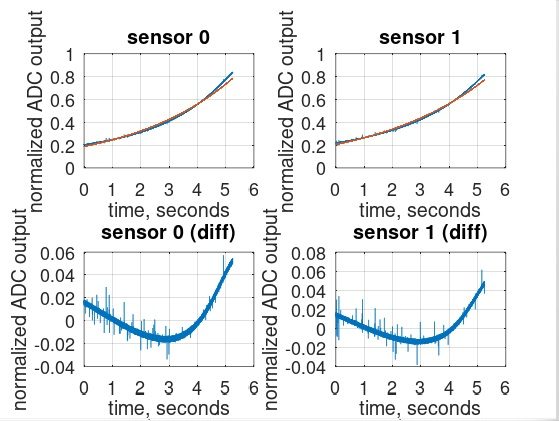
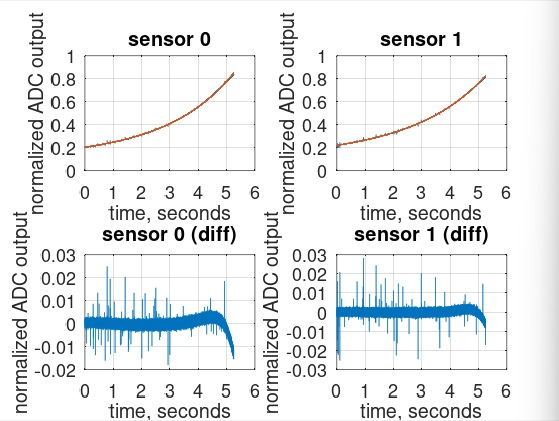
block diagram of processing description

Changed region(s): [[0.0, 0.0309, 0.9123, 1.0], [0.9732, 0.247, 1.0, 1.0]]

diff --git a/pdps/README.md b/pdps/README.md
@@ -4,6 +4,8 @@ The open source hybrid piano [1][2] (*OSH Piano*, also known as *stem piano*) me
 
 The following describes a measurement and processing system including compensating for error sources. The following system is not open source nor included as part of an open source piano.
 
+Note that not all .md viewers show equation numbers. The text includes an equation number in description.
+
 # 1. PDPS Block Diagrams
 
 ## Fig. 1 Mechanical System on Hammer
@@ -18,7 +20,7 @@ Side view of mechanical system and sensors at hammer.
 | 101 | Shank | Standard component of a grand piano action. |
 | 102 | Hammer | Standard component of a grand piano action. |
 | 103 | Stop Bar | Physically stops the hammer motion. In a piano, the hammer would stop when it hits a piano string. |
-| 104 | Optical gate | Precision cut gap in a thin material. Gap shape not necessarily as shown in figure. |
+| 104 | Optical gate | Precision cut gap in a thin material. Gap shape not necessarily as shown in figure. An alternate method is blocking in center and gap above and below in a 'flag' type structure. |
 | 105 | Phototransmissive System (PTS) | Transmissive light emitting and receiving devices that straddle the optical gate 104 as the hammer 101 moves from rest position to position at stop bar 103. For absolute position measurement references. |
 | 106 | Photoreflective System (PRS) | Reflective light emitting and receiving device for continuous hammer shank relative position measurements. |
 | 107 | Sensing Mount | Connecting system for PTS 105 and PRS 106. |
@@ -64,9 +66,11 @@ The vertical axis is the analog output of a PTS or PRS photoreceiver. The horizo
 | 400 | PRS photoreceiver output signal | Response is nonlinear and subject to PRS (106) manufacturing tolerances.
 | 401 | PTS photoreceiver output signal | Response is high when the optical gate (104) (304) is not blocking PTS photo emitter (306) and photo receiver (305) light path.
 | 402 | Rest position | Output signal of PTS (105) is at level 406 and output of PRS (106) is at level 407.
-| 403 | Shuttle start opening | Output signal of PTS (105) photoreceiver goes from level 406 to level 411 as shuttle opening starts to cross the PTS photo emitter (306) and photo receiver (305) light path. Output signal (400) of PRS (106) is at level 408.
-| 404 | Shuttle end opening  | Output signal of PTS (105) goes from level 411 to level 406 as shuttle opening ends crossing of the PTS photo emitter (306) and photo receiver (305) light path. Output signal (400) of PRS (106) is at level 409.
+| 403 | Optical gate start opening | Output signal of PTS (105) photoreceiver goes from level 406 to level 411 as optical gate opening starts to cross the PTS photo emitter (306) and photo receiver (305) light path. Output signal (400) of PRS (106) is at level 408.
+| 404 | Optical gate end opening  | Output signal of PTS (105) goes from level 411 to level 406 as optical gate opening ends crossing of the PTS photo emitter (306) and photo receiver (305) light path. Output signal (400) of PRS (106) is at level 409.
 | 405 | Max position | Output signal (401) of PTS (105) is at level 406 and output signal (400) of PRS (106) is at level 410 when hammer is at hammer stop (103). |
+
+In an alternate embodiment, the optical gate is blocked at center and open at top and bottom. In this case, PTS photoreceiver output signal (401) is inverted.
 
 ## Fig. 5 Piano Dynamics Process System High Level Block Diagram
 
@@ -87,6 +91,8 @@ Each PRS, PTS, and ADC section in Fig. 5 replicates for each hammer. Similarly f
 | 508 | Sound | System computes piano sounds and outputs for speakers or headphones. |
 | 509 | Replication of PRS, PTS, and ADC | For 88 or more piano dampers and 88 or more piano keys. |
 
+Because a PTS signal (504) is nearly two-level, an alternate embodiment to an ADC is an analog comparator or Schmitt trigger. This circuit converts the analog signal to a binary ON or OFF value. A comparator is simpler and less expensive than an ADC. The advantage of an ADC is ability for more sophisticated signal processing in Processing System (500) to increase accuracy and precision.
+
 ### Fig. 6 Sampled Waveforms.
 
 <img src="./pdps_fig6.jpg" alt="drawing" width="500"/>
@@ -95,6 +101,25 @@ Each PRS, PTS, and ADC section in Fig. 5 replicates for each hammer. Similarly f
 | - | - | - |
 | 600 | Position values | Normalized values, after correction for all system errors as described below, used by algorithms in Processing System 500. |
 | 601 | Velocity values | Normalized velocity values as computed from 600 in Processing System 500. Velocity values are continuously computed they are not computed based on thresholds. Many digital signal processing algorithms exist to compute velocity based on continuously sampled waveforms.
+
+### Fig. 7 Processing System
+
+The processing is described in detail later in this document. The system in Fig. 7 replicates for each hammer signal and for each key (used in part to calculate damper dynamics) signal.
+
+<img src="./pdps_fig7.jpg" alt="drawing" width="500"/>
+
+| Item | Name | Description |
+| - | - | - |
+| 700 | Sampled PTS values | Received from ADC connected to PTS output signal (504). Alternatively, this is a binary input from an external PTS photoreceiver comparator circuit. |
+| 701 | PTS Process | Signal processing to precisely and consistently capture instant of rising and falling edges. See Fig. 4 and (401) for reference. |
+| 702 | PTS Processed Output | Signal indicating a PTS signal rising or falling edge. |
+| 703 | Sampled PRS values | Received from ADC connected to PRS output signal (502). |
+| 704 | Normalize | Normalize ADC integer values into a floating point value in range 0.0, ..., 1.0. |
+| 705 | Curve Fit | Implement equations (12) and (13) as described later. |
+| 706 | Curve Fit output | Curve fit values $a$ and $b$. |
+| 707 | Normalized samples | PRS values in range 0.0, ..., 1.0. |
+| 708 | Invert | Implement equation (14) as described later to get $x_{estimated}$. |
+| 709 | Output | Output samples for example $position[k]$ (600). |
 
 # 2. Error Sources
 
@@ -177,13 +202,13 @@ $$
 
 Here, $c_0$, $c_1$, and $c_2$ are fitting coefficients. This quadratic exponential model represents the sensor circuit as an exponential with a non-constant slope.
 
-Fit measured data to model (1) by solving a linear equation.
+Fit measured data to model (1) by solving a linear equation (2).
 
 $$
 X \cdot \mathbf{c} = \log(\mathbf{y}) \tag{2}
 $$
 
-In the case of (1), three measurement pairs $(x_0, y_0)$, $(x_1, y_1)$, $(x_2, y_2)$ enable solving for $c_0$, $c_1$, and $c_2$.
+In the case of (1), three measurement pairs $(x_0, y_0)$, $(x_1, y_1)$, $(x_2, y_2)$ enable solving for $c_0$, $c_1$, and $c_2$ as shown in equation (3).
 
 $$
 \begin{bmatrix} x_0^2 & x_0 & 1 \\ x_1^2 & x_1 & 1 \\ x_2^2 & x_2 & 1 \end{bmatrix}
@@ -191,13 +216,13 @@ $$
 \begin{bmatrix} \log(y_0) \\ \log(y_1) \\ \log(y_2) \end{bmatrix} \tag{3}
 $$
 
-With these parameters, the calibration algorithm can solve for distance $x_{estimated}$ given a sensor output $y$:
+With these parameters, the calibration algorithm can solve for distance $x_{estimated}$ given a sensor output $y$ (equation (4)):
 
 $$x_{estimated} = \frac{-c_1 \pm \sqrt{c_1^2 - 4 c_2 (c_0 - \log(y))}}{2 c_2} \tag{4}$$
 
 ### Test model fit to sensor response
 
-While the quadratic-exponential model (1) only needs three measurement pairs, test accuracy of the model by fitting (1) to a large number of measurement pairs. This involves solving with an optimization algorithm. The overdetermined system is:
+While the quadratic-exponential model (1) only needs three measurement pairs, test accuracy of the model by fitting (1) to a large number of measurement pairs. This involves solving with an optimization algorithm. The overdetermined system is equation (5):
 
 $$
 X = 
@@ -209,7 +234,7 @@ x_{N-1}^2 & x_{N-1} & 1 \\
 \end{bmatrix} \tag{5}
 $$
 
-Fit curve by minimizing the squared residual.
+Fit curve by minimizing the squared residual as shown by equation (6).
 
 $$
 \min_{\mathbf{c}} \left\| X \mathbf{c} - \log(\mathbf{y}) \right\|^2 \tag{6}
@@ -221,13 +246,13 @@ The following figure shows two experimental results and the quadratic-exponentia
 
 ![experimental fit](./pdps_fig7.jpg)
 
-The horizontal axis is in units of seconds because the plot is response of sensor as the stepper motor moved the sensor toward a reflective surface (see the YouTube video link). The stepper motor moves the sensor at a fixed rate.
+The horizontal axis is in units of seconds because the plot is response of sensor as the stepper motor moved the sensor toward a reflective surface (see the YouTube video link). The stepper motor moves the sensor at a fixed rate. This is equation (7).
 
 $$
 x_{motor} = v_{motor} t \tag{7}
 $$
 
-Solve for t.
+Solve for t in equation (8).
 
 $$ t = \frac{x_{motor}}{v_{motor}} \tag{8}$$
 
@@ -239,18 +264,18 @@ An exponential with constant slope offers a similar but simpler alternative to t
 
 ### Model Derivation
 
-The model:
+The model is equation (9):
 
 $$
 \hat{y} = e^{a x + b} \tag{9}
 $$
 
-Assume measurement pairs $\{x, y\}$ at two points.
+Assume measurement pairs $\{x, y\}$ at two points, equations (10) and (11).
 
 $$ y_0 = e^{a x_0 + b} \tag{10} $$
 $$ y_1 = e^{a x_1 + b} \tag{11} $$
 
-Solve for $a$ and $b$:
+Solve for $a$ and $b$ with equations (12) and (13):
 
 $$
 a = \frac{\ln(y_1) - \ln(y_0)}{x_1 - x_0} \tag{12}
@@ -260,7 +285,7 @@ $$
 b = \ln(y_0) - a x_0 \tag{13}
 $$
 
-Given a sensor measured response $y$, the associated linearized value $x_{estimated}$ is:
+Given a sensor measured response $y$, the associated linearized value $x_{estimated}$ is equation (14):
 
 $$
 x_{estimated} = \frac{\ln(y) - b}{a} \tag{14}
@@ -282,20 +307,20 @@ First, fit the PRS output signal (400) to (9) by application of (12) and (13) us
 
 | Equation (10) and (11) variable | Value |
 | - | - |
-| $x_0$ | Arbitrarily assign to the value 0.25 |
+| $x_0$ | Assign to the value 0.25. Other values are possible depending on physical arrangement of piano action and components such as hammer stop bar (103) and sensing mounts (107) or (207). Also influencing selection of $x_0$ is the maximum and minimum possible PRS output values over all manufacturing tolerances of PRS (106) or (206). |
 | $y_0$ | PRS output signal level 408 after ADC and normalization. |
-| $x_1$ | Arbitrarily assign to the value 0.75 |
+| $x_1$ | Assign to the value 0.75. Other values are possible depending on physical arrangement of piano action and components such as hammer stop bar (103) and sensing mounts (107) or (207). Also influencing selection of $x_1$ is the maximum and minimum possible PRS output values over all manufacturing tolerances of PRS (106) or (206). |
 | $y_1$ | PRS output signal level 409 after ADC and normalization. |
 
-The PRS output signal (400) is normalized by Processing System (500) to range 0, ..., 1.0. The normalization follows standard practice of setting the ADC reference level and application of number of ADC levels to convert ADC output values to floating point values. The PRS device (301) (for hammer (106) for key (206)) biasing system is setup for output voltage to ensure at least a rest value of less than 0.25 and a minimum normalized maximum value of greater than 0.75 for all PRS devices (301) in the piano.
+The PRS output signal (400) is normalized by Processing System (500) and (704) to range 0, ..., 1.0. The normalization follows standard practice of setting the ADC reference level and application of number of ADC levels to convert ADC output values to floating point values. The PRS device (301) (for hammer (106) for key (206)) biasing system is setup for output voltage to ensure at least a rest value of less than 0.25 and a minimum normalized maximum value of greater than 0.75 for all PRS devices (301) in the piano.
 
-Solve (12) and (13) store parameters $a$ and $b$ for each hammer and for each key. Calculation can be continuous or with a separate calibration step (press all keys one at a time) for cases of significant changes in mechanical system, parts changes, or alignments.
+With (705), solve (12) and (13) store parameters $a$ and $b$ for each hammer and for each key. Calculation can be continuous or with a separate calibration step (press all keys one at a time) for cases of significant changes in mechanical system, parts changes, or alignments.
 
 Use of PTS to find levels (408) and (409) ensures consistent position axis distance for velocity measurements.
 
 Use of PTS does not ensure absolute position consistency (for example, in general $x = v*t + x_{initial}$). Absolute consistency depends on consistent hammer rest positions and alignment of PTS (104) and (204). 
 
-When playing piano, the calibration algorithm computes $x_{estimated}$ from ADC output by application of (14).
+When playing piano, (708) computes $x_{estimated}$ from ADC output by application of (14).
 
 Subsequent PDPS algorithms running as part of Processing System (500) utilize $x_{estimated}$ (14) as position signal (600) to compute velocity values (601) for MIDI (506) or as input to sound generation algorithms for sound output (508). The algorithms do not use thresholds in computing velocity values. Velocity is computed continuously based on post-calibrated values.
 
@@ -315,11 +340,11 @@ Subsequent PDPS algorithms running as part of Processing System (500) utilize $x
 5. Fully digital solution with continuous time-series digital signal processing algorithms.
 6. No offline measurements before or when installed.
 7. No strict assembly tolerance requirements. The hammer stop bar (103), and sensor mounts (107) and (207) do not require precision mounting.
-8. Can get even better accuracy with quadratic exponential and with an additional precision cut gap for PTS optical gate (104) or (204) and value $x_2$ (for example test results show much better than the 2% error as described in the disadvantages section above). Or even as many curve-fitting sample points as desired.
+8. Can get even better accuracy with quadratic exponential (1) and with an additional precision cut gap for PTS optical gate (104) or (204) and value $x_2$ (for example test results show much better than the 2% error as described in the disadvantages section above). Or even as many curve-fitting sample points as desired.
 9. Only requires a single PTS which eliminates multiple PTS photo emitter and photoreceiver alignment. Only need one because PRS gives the continuous position.
 10. Absolute position can be setup to only depend on the rest position of hammers. If desired, this can be set very precisely using only the piano action without any of the other assemblies such as hammer stop bar (103), or mounts (107) and (207).
 11. Accuracy of $x_1$ - $x_0$ is the optical gate (104) or (204) opening machining accuracy. Separating tolerances into this single gap opening makes it possible to get extremely high accuracy as a separate step from building the piano and associated tolerances.
-12. Its cool.
+12. When the Nyquist sample rate is met, then can calculate velocity after hammer let-off and while hammer shank is in flight from the jack and at the instant prior to hitting a string. This enables much more precise replication of exact piano action dynamics during piano playing. In general, tracking position, velocity, and even acceleration during hammer and key (hence damper) motion enables a very accurate and precise hybrid piano experience for the pianist.
 
 # References
 
